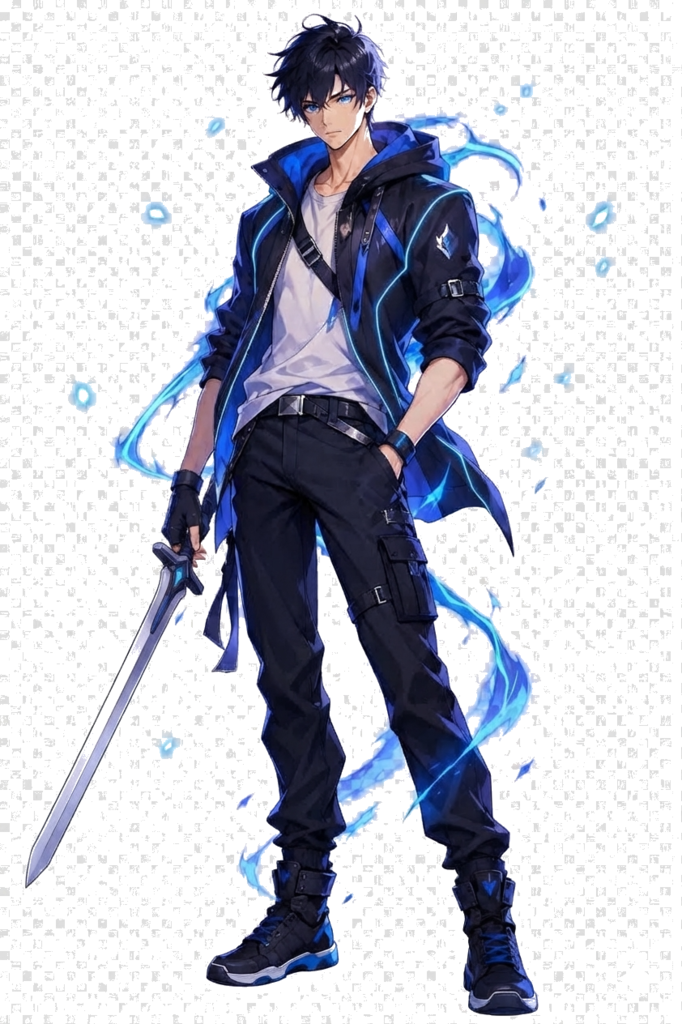
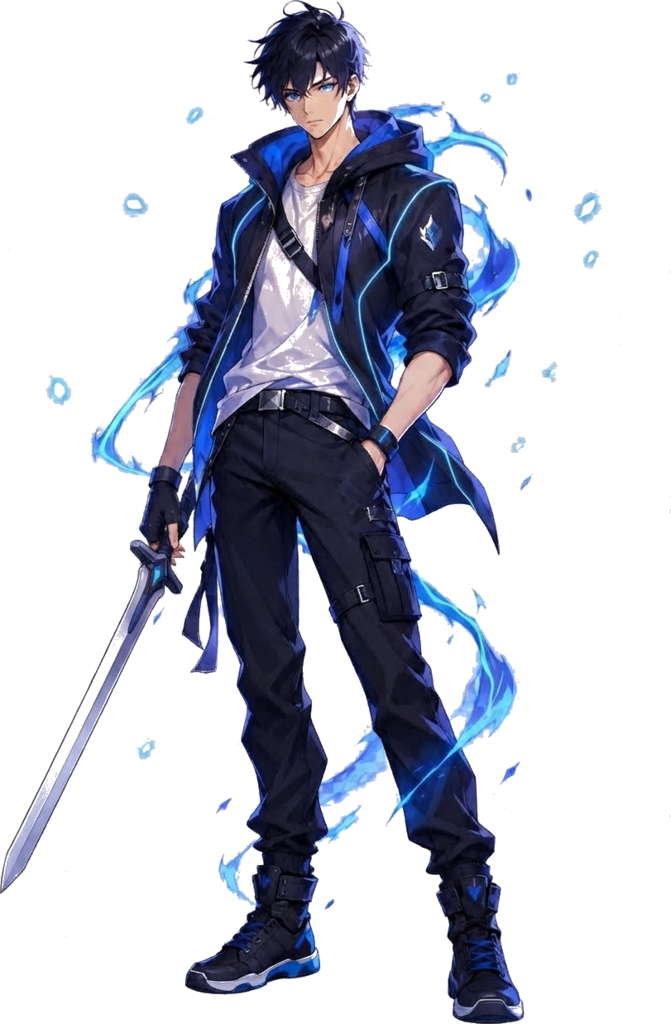
feat(chars+roadmap): crop new transparent chars, add rank roadmap popup

diff --git a/src/components/system/RankRoadmap.tsx b/src/components/system/RankRoadmap.tsx
@@ -1,0 +1,113 @@
+import { motion, AnimatePresence } from "framer-motion";
+import { X, Star } from "lucide-react";
+import { useState } from "react";
+import { useGameStore } from "../hooks/useGameStore";
+import { characterAssetForLevel, worldAssetForLevel, WORLD_MILESTONE_LABELS } from "../lib/milestones";
+import { levelDisplay, rankForLevel, thresholdForLevel } from "../lib/progression";
+import { RankBadge } from "../ui/GameArt";
+
+export default function RankRoadmap() {
+  const { profile } = useGameStore();
+  const [open, setOpen] = useState(false);
+  if (!profile) return null;
+
+  const disp = levelDisplay(profile.totalXp, profile.level);
+  const currentLevel = disp.level;
+  const currentRank = disp.rank;
+  const milestones = [1, 5, 10, 15, 20, 25, 30, 35, 40, 45, 50, 51];
+
+  return (
+    <>
+      <button
+        onClick={() => setOpen(true)}
+        className="pointer-events-auto fixed bottom-5 right-5 z-40 flex items-center gap-1.5 rounded-full border border-fuchsia/30 bg-ink/80 px-3 py-2 text-[10px] font-display font-bold tracking-[0.3em] text-ivory backdrop-blur-sm transition-colors hover:border-fuchsia/50"
+        aria-label="Rank roadmap"
+      >
+        <Star size={10} className="text-fuchsia" aria-hidden="true" />
+        ROADMAP
+      </button>
+
+      <AnimatePresence>
+        {open && (
+          <motion.div
+            className="fixed inset-0 z-[200] grid place-items-center bg-void/90 backdrop-blur-sm p-4"
+            initial={{ opacity: 0 }} animate={{ opacity: 1 }} exit={{ opacity: 0 }}
+            onClick={() => setOpen(false)}
+          >
+            <motion.div
+              className="relative w-full max-w-md max-h-[90vh] overflow-y-auto rounded-sm border border-violet/20 bg-ink p-6"
+              initial={{ scale: 0.92, opacity: 0, y: 20 }}
+              animate={{ scale: 1, opacity: 1, y: 0 }}
+              exit={{ scale: 0.92, opacity: 0, y: 20 }}
+              transition={{ duration: 0.3, ease: "easeOut" }}
+              onClick={(e) => e.stopPropagation()}
+            >
+              <button
+                onClick={() => setOpen(false)}
+                className="absolute right-4 top-4 text-mist hover:text-ivory"
+                aria-label="Close"
+              >
+                <X size={18} />
+              </button>
+
+              <p className="font-display text-xs tracking-[0.4em] text-violet">[SYSTEM]</p>
+              <h2 className="mt-1 font-display text-2xl tracking-wider text-ivory">RANK ROADMAP</h2>
+
+              <div className="mt-5 flex items-center gap-3">
+                <RankBadge rank={currentRank as any} size={36} />
+                <div>
+                  <p className="font-display text-lg text-ivory">LV.{String(currentLevel).padStart(2, "0")} — {currentRank}-RANK</p>
+                  <p className="text-[10px] tracking-wider text-mist">{disp.xpToNext.toLocaleString()} XP to next</p>
+                </div>
+              </div>
+
+              <div className="relative mt-6 pl-4">
+                <div className="absolute left-0 top-0 bottom-0 w-px bg-violet/30" />
+                {milestones.map((ml) => {
+                  const reached = ml <= currentLevel;
+                  const isCurrent = ml === currentLevel;
+                  const worldLabel = ml in WORLD_MILESTONE_LABELS ? WORLD_MILESTONE_LABELS[ml] : null;
+                  return (
+                    <div key={ml} className={`relative flex items-center gap-3 py-1.5 ${reached ? "opacity-100" : "opacity-25"}`}>
+                      <div className={`relative z-10 flex h-5 w-5 items-center justify-center rounded-full border ${reached ? "border-violet bg-violet/20" : "border-mist/30 bg-ink"}`}>
+                        {reached && <div className="h-1.5 w-1.5 rounded-full bg-violet" />}
+                      </div>
+                      <div className="flex-1">
+                        <p className={`font-display text-xs ${reached ? "text-ivory" : "text-mist"}`}>
+                          LV.{String(ml).padStart(2, "0")} — {rankForLevel(ml)}-RANK
+                        </p>
+                        {worldLabel && reached && (
+                          <p className="text-[8px] tracking-wider text-arc">{worldLabel.title.toUpperCase()}</p>
+                        )}
+                      </div>
+                      {isCurrent && <span className="text-[8px] font-bold tracking-widest text-violet">NOW</span>}
+                    </div>
+                  );
+                })}
+              </div>
+
+              <div className="mt-5 grid grid-cols-2 gap-3">
+                <div className="overflow-hidden rounded-sm border border-void/40 bg-void/30">
+                  <img src={worldAssetForLevel(currentLevel)} alt="" className="h-20 w-full object-cover opacity-60" />
+                  <p className="px-2 py-1 text-[9px] tracking-wider text-mist">MAP — LV.{String(currentLevel).padStart(2, "0")}</p>
+                </div>
+                <div className="overflow-hidden rounded-sm border border-void/40 bg-void/30">
+                  <img src={characterAssetForLevel(currentLevel)} alt="" className="h-20 w-full object-contain bg-void/50" />
+                  <p className="px-2 py-1 text-[9px] tracking-wider text-mist">CHARACTER — LV.{String(currentLevel).padStart(2, "0")}</p>
+                </div>
+              </div>
+
+              <div className="mt-4 flex items-center justify-between rounded-sm border border-fuchsia/20 bg-fuchsia/5 px-3 py-2">
+                <div className="flex items-center gap-2">
+                  <Star size={14} className="text-fuchsia" />
+                  <p className="font-display text-xs tracking-wider text-fuchsia">S RANK — LV.51</p>
+                </div>
+                <p className="text-[10px] text-mist">{Math.max(0, thresholdForLevel(51) - profile.totalXp).toLocaleString()} XP away</p>
+              </div>
+            </motion.div>
+          </motion.div>
+        )}
+      </AnimatePresence>
+    </>
+  );
+}

diff --git a/src/pages/HomePage.tsx b/src/pages/HomePage.tsx
@@ -18,6 +18,7 @@ import AmbientLayer from "../components/world/AmbientLayer";
 import SystemBoot from "../components/system/SystemBoot";
 import { StreakWeek, NextQuestNudge } from "../components/system/HabitHooks";
 import AiSettingsPanel from "../components/system/AiSettingsPanel";
+import RankRoadmap from "../components/system/RankRoadmap";
 import { useGameStore } from "../hooks/useGameStore";
 import { seedAwakeningQuestIfEmpty } from "../services/awakeningSeed";
 import { seedDailyQuestsIfNewDay, regenerateDailyQuests } from "../services/dailyQuests";
@@ -251,6 +252,7 @@ export default function HomePage() {
         onClose={() => setAiOpen(false)}
         onSaved={() => setAiReady(isAiConfigured())}
       />
+      <RankRoadmap />
     </div>
   );
 }
